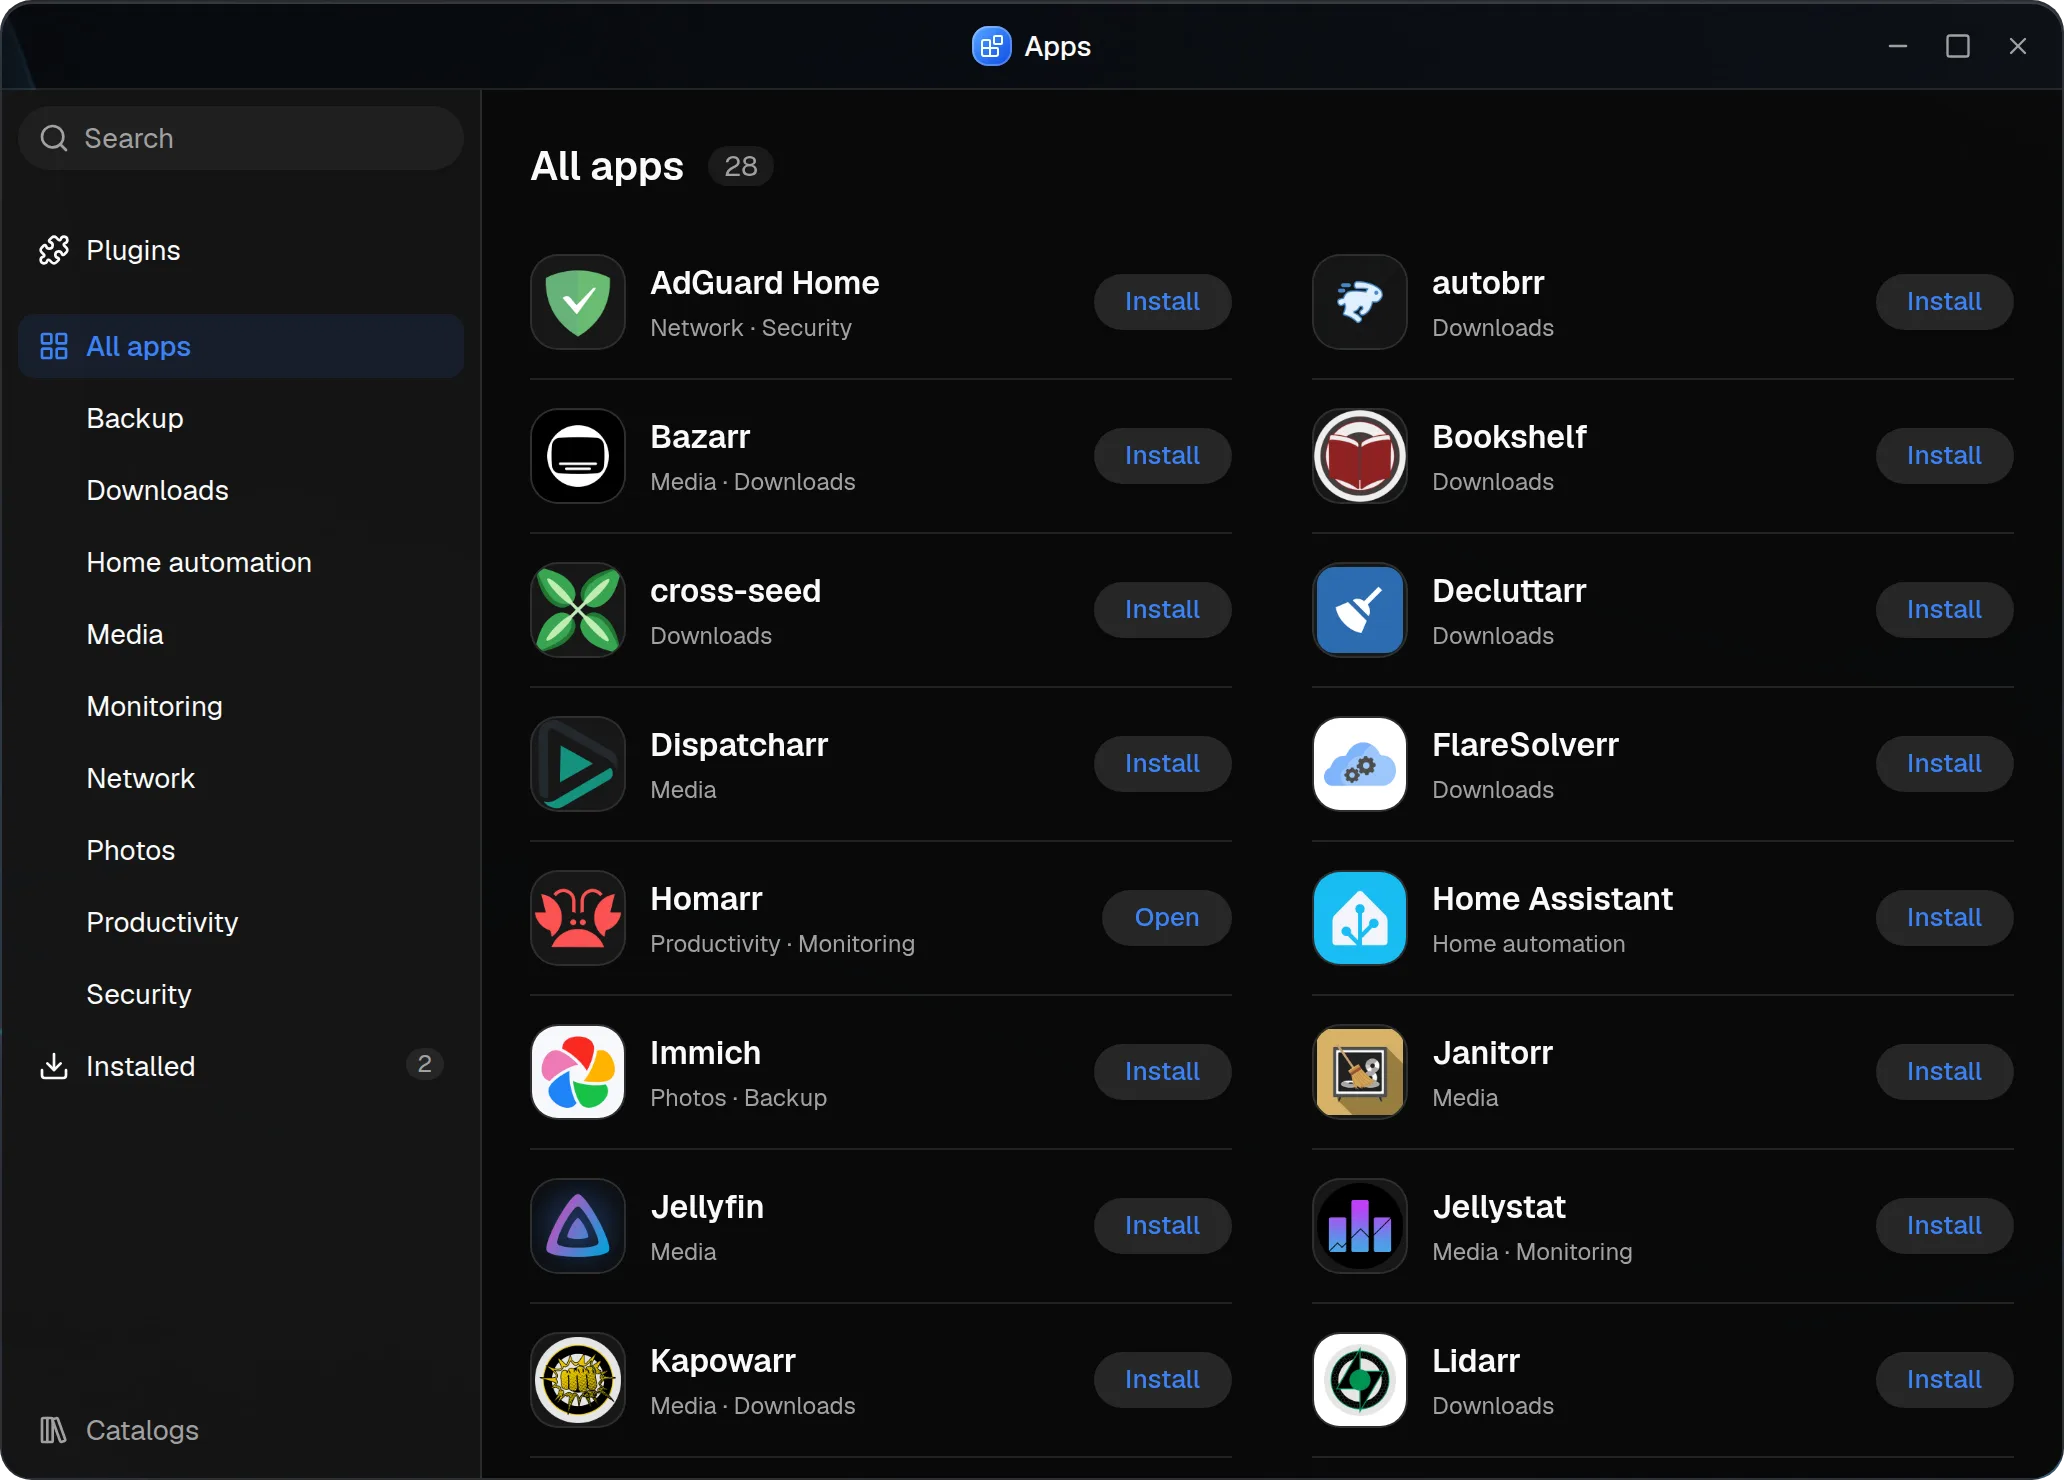
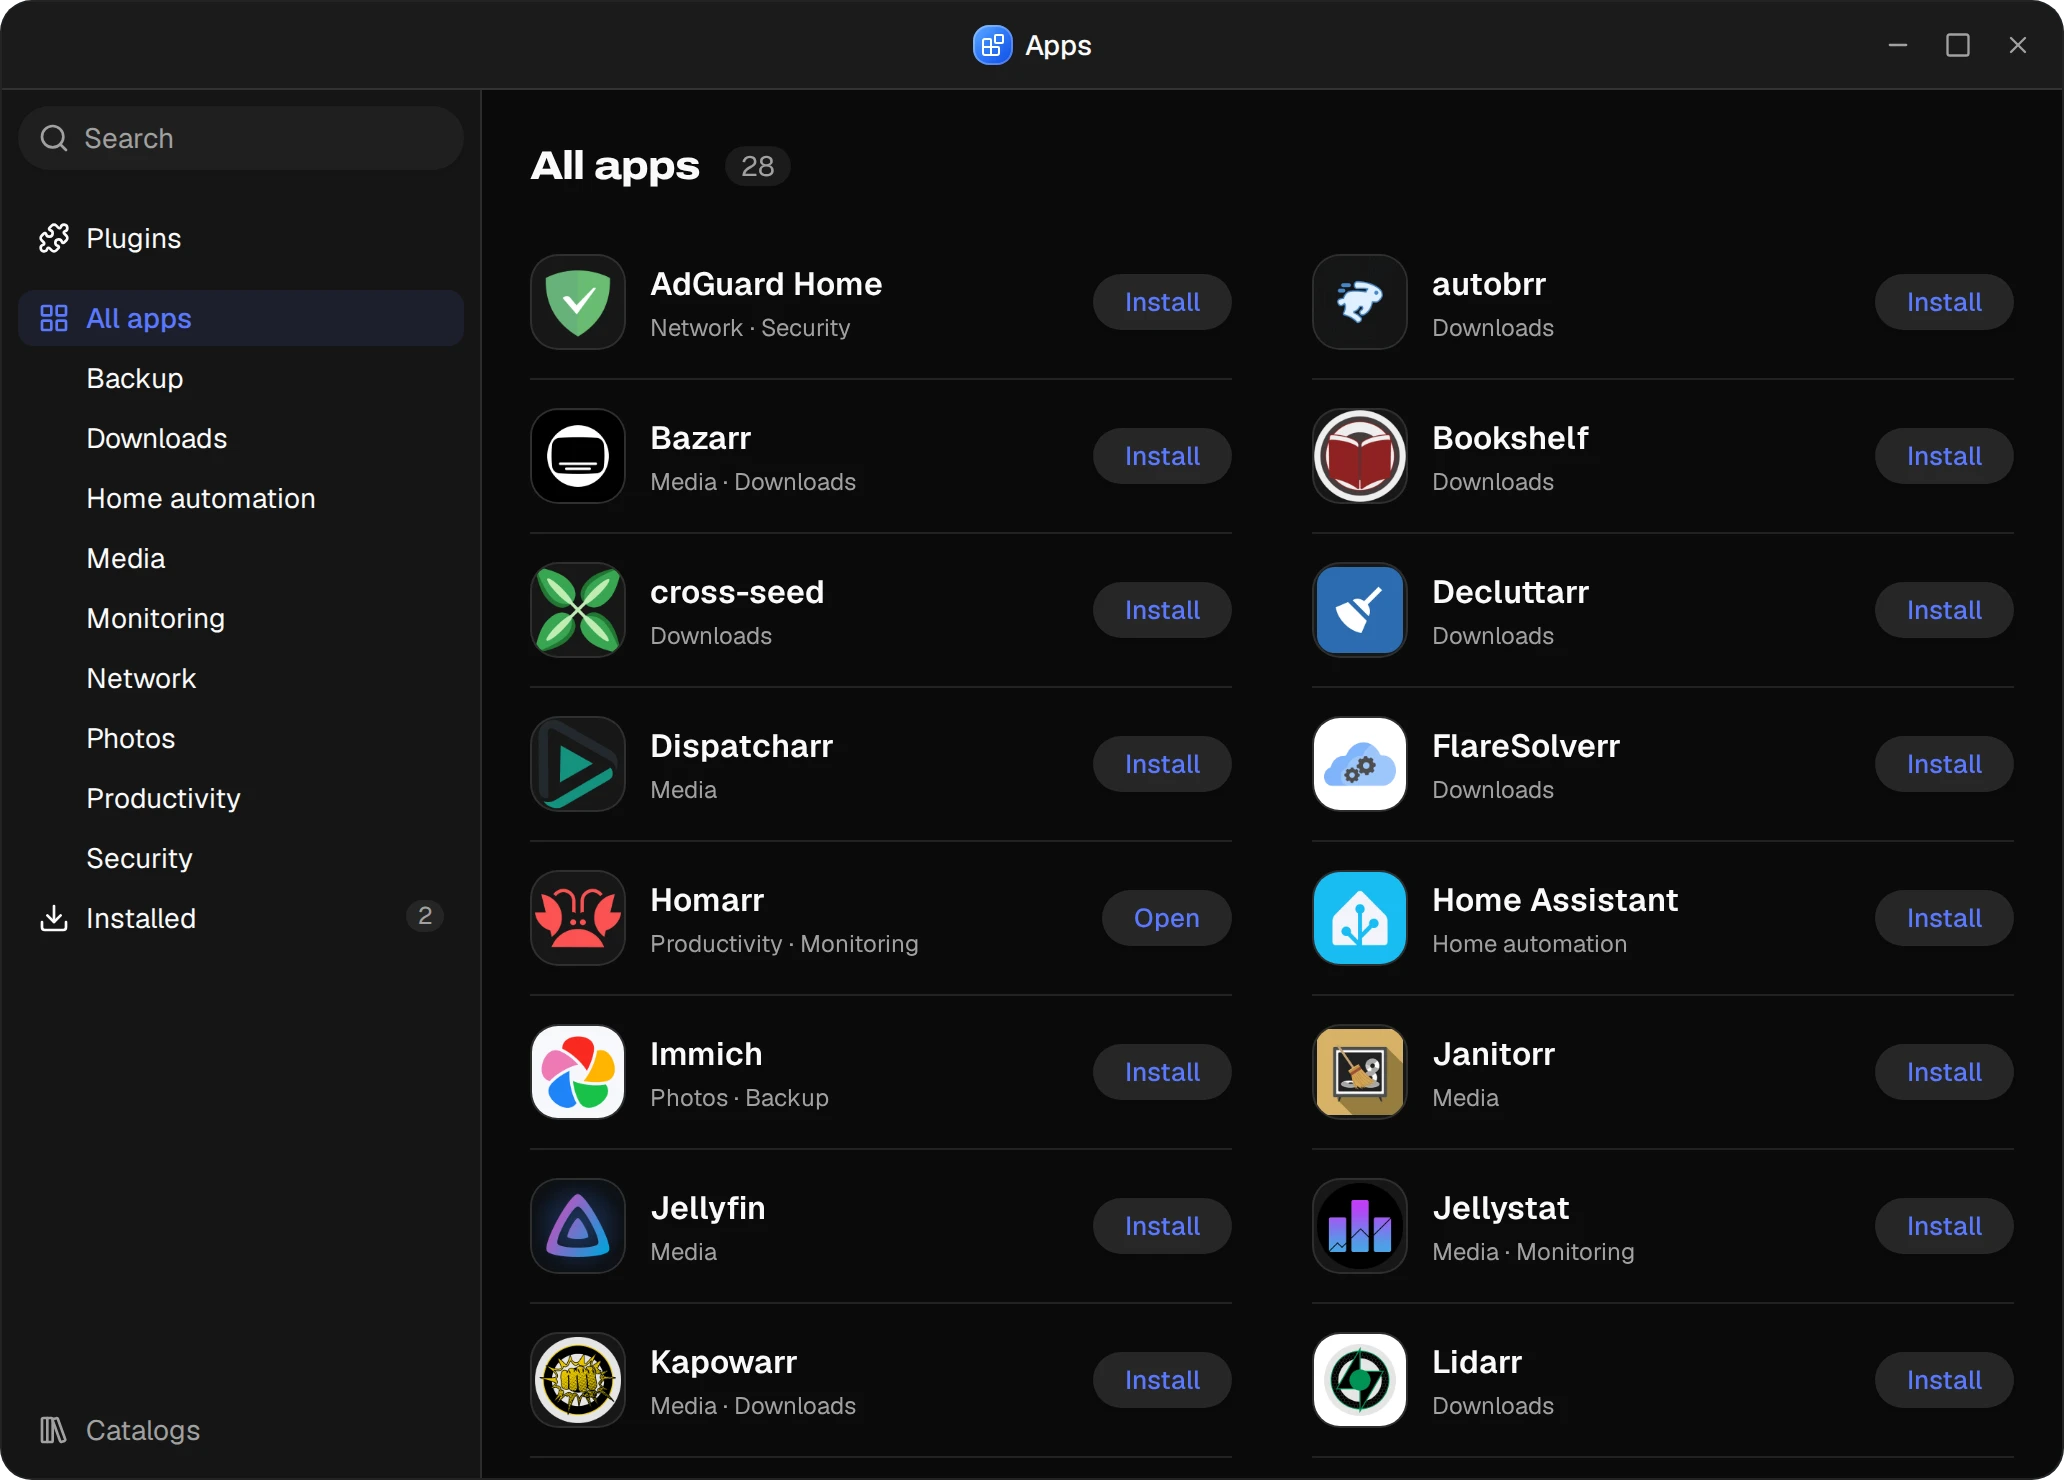
Show the look of 0.5.0: the desktop, files, disks, the pool wizard, apps, Docker and updates anew
Seven of the screenshots are taken again from 0.5.0: solid windows, the
display face in titles, names in the monospaced one, the bar without its
gauges, the Control panel's search. The Updates page shows 0.5.0 from
the stable channel instead of the test release.

The six that need demo data of their own (virtual machines and their
console, the backup tasks and a restore, the configuration backup, a
folder's permissions) still show the test release; the notes say what
each of them needs.

diff --git a/index.html b/index.html
@@ -246,7 +246,7 @@ try { if (!localStorage.getItem('zendiloos.lang') && /^de\b/i.test(navigator.lan
             <p>Once a day zendiloOS looks for updates: Debian’s packages and new releases of zendiloOS itself. You decide when to install them, and the NAS only restarts when you say so.</p>
             <ul class="checks"><li><svg class="i" width="18" height="18" viewBox="0 0 24 24" fill="none" stroke="currentColor" stroke-width="2" stroke-linecap="round" stroke-linejoin="round" aria-hidden="true"><path d="M20 6 9 17l-5-5"/></svg><span>Stable, test or development: the channel is yours to choose</span></li><li><svg class="i" width="18" height="18" viewBox="0 0 24 24" fill="none" stroke="currentColor" stroke-width="2" stroke-linecap="round" stroke-linejoin="round" aria-hidden="true"><path d="M20 6 9 17l-5-5"/></svg><span>Every release signed and verified before it is installed</span></li><li><svg class="i" width="18" height="18" viewBox="0 0 24 24" fill="none" stroke="currentColor" stroke-width="2" stroke-linecap="round" stroke-linejoin="round" aria-hidden="true"><path d="M20 6 9 17l-5-5"/></svg><span>ZFS checked against a new kernel before you restart</span></li><li><svg class="i" width="18" height="18" viewBox="0 0 24 24" fill="none" stroke="currentColor" stroke-width="2" stroke-linecap="round" stroke-linejoin="round" aria-hidden="true"><path d="M20 6 9 17l-5-5"/></svg><span>A kernel without its ZFS module never started: GRUB keeps one that has it </span></li></ul>
           </div>
-          <div class="stage" style="--c1:#6ee7b7;--c2:#059669"><picture class=""><source srcset="assets/img/updates-dark.webp" media="(prefers-color-scheme: dark)"><img src="assets/img/updates-light.webp" width="2064" height="1520" alt="Updates in the control panel: zendiloOS 0.5.0~rc.1 installed; the newest kernel has no ZFS module yet, so the NAS keeps starting the one before." loading="lazy" decoding="async"></picture></div>
+          <div class="stage" style="--c1:#6ee7b7;--c2:#059669"><picture class=""><source srcset="assets/img/updates-dark.webp" media="(prefers-color-scheme: dark)"><img src="assets/img/updates-light.webp" width="2064" height="1520" alt="Updates in the control panel: zendiloOS 0.5.0 installed from the stable channel, the steps of the last update done, and everything current." loading="lazy" decoding="async"></picture></div>
         </article>
       </div>
     </div>

diff --git a/de/index.html b/de/index.html
@@ -244,7 +244,7 @@
             <p>Einmal am Tag sucht zendiloOS nach Updates: Debians Paketen und neuen Releases von zendiloOS selbst. Sie entscheiden, wann installiert wird, und das NAS startet nur neu, wenn Sie es sagen.</p>
             <ul class="checks"><li><svg class="i" width="18" height="18" viewBox="0 0 24 24" fill="none" stroke="currentColor" stroke-width="2" stroke-linecap="round" stroke-linejoin="round" aria-hidden="true"><path d="M20 6 9 17l-5-5"/></svg><span>Stabil, Test oder Entwicklung: Sie wählen den Kanal</span></li><li><svg class="i" width="18" height="18" viewBox="0 0 24 24" fill="none" stroke="currentColor" stroke-width="2" stroke-linecap="round" stroke-linejoin="round" aria-hidden="true"><path d="M20 6 9 17l-5-5"/></svg><span>Jedes Release signiert und vor der Installation geprüft</span></li><li><svg class="i" width="18" height="18" viewBox="0 0 24 24" fill="none" stroke="currentColor" stroke-width="2" stroke-linecap="round" stroke-linejoin="round" aria-hidden="true"><path d="M20 6 9 17l-5-5"/></svg><span>ZFS wird vor dem Neustart gegen einen neuen Kernel geprüft</span></li><li><svg class="i" width="18" height="18" viewBox="0 0 24 24" fill="none" stroke="currentColor" stroke-width="2" stroke-linecap="round" stroke-linejoin="round" aria-hidden="true"><path d="M20 6 9 17l-5-5"/></svg><span>Ein Kernel ohne sein ZFS-Modul startet nie: GRUB bleibt bei einem, der es hat </span></li></ul>
           </div>
-          <div class="stage" style="--c1:#6ee7b7;--c2:#059669"><picture class=""><source srcset="../assets/img/updates-dark.webp" media="(prefers-color-scheme: dark)"><img src="../assets/img/updates-light.webp" width="2064" height="1520" alt="Updates in der Systemsteuerung: zendiloOS 0.5.0~rc.1 ist installiert; der neueste Kernel hat noch kein ZFS-Modul, daher startet das NAS weiter den vorigen." loading="lazy" decoding="async"></picture></div>
+          <div class="stage" style="--c1:#6ee7b7;--c2:#059669"><picture class=""><source srcset="../assets/img/updates-dark.webp" media="(prefers-color-scheme: dark)"><img src="../assets/img/updates-light.webp" width="2064" height="1520" alt="Updates in der Systemsteuerung: zendiloOS 0.5.0 aus dem stabilen Kanal ist installiert, die Schritte des letzten Updates sind erledigt, alles ist aktuell." loading="lazy" decoding="async"></picture></div>
         </article>
       </div>
     </div>

diff --git a/de/features/index.html b/de/features/index.html
@@ -256,7 +256,7 @@
             <div><dt>Noch nicht</dt><dd>Ein Wiederherstellungseintrag im Startmenü des installierten Systems und ein Live-Image mit ZFS für einen Rechner, dessen Systemplatte fehlt</dd></div>
             <div><dt>Getestet</dt><dd>In virtuellen Maschinen: Updates von Debian und zendiloOS, Verweigerungen, ein Kernel ohne ZFS, der nie startet, eine ältere Installation mit ihren Daten aktualisiert, eine Konfigurationssicherung auf einem frischen Rechner wiederhergestellt und ihr Pool importiert.</dd></div>
         </dl>
-        <div class="reveal"><div class="stage stack" style="--c1:#6ee7b7;--c2:#059669"><picture class=""><source srcset="../../assets/img/updates-dark.webp" media="(prefers-color-scheme: dark)"><img src="../../assets/img/updates-light.webp" width="2064" height="1520" alt="Updates in der Systemsteuerung: zendiloOS 0.5.0~rc.1 ist installiert; der neueste Kernel hat noch kein ZFS-Modul, daher startet das NAS weiter den vorigen." loading="lazy" decoding="async"></picture><picture class="back"><source srcset="../../assets/img/config-backup-dark.webp" media="(prefers-color-scheme: dark)"><img src="../../assets/img/config-backup-light.webp" width="2064" height="1520" alt="Die Konfigurationssicherung in der Systemsteuerung: wöchentlich sonntags um 03:00 in die Freigabe backups, die neuesten 7 behalten, dazu die Datei der letzten Sicherung." loading="lazy" decoding="async"></picture></div></div>
+        <div class="reveal"><div class="stage stack" style="--c1:#6ee7b7;--c2:#059669"><picture class=""><source srcset="../../assets/img/updates-dark.webp" media="(prefers-color-scheme: dark)"><img src="../../assets/img/updates-light.webp" width="2064" height="1520" alt="Updates in der Systemsteuerung: zendiloOS 0.5.0 aus dem stabilen Kanal ist installiert, die Schritte des letzten Updates sind erledigt, alles ist aktuell." loading="lazy" decoding="async"></picture><picture class="back"><source srcset="../../assets/img/config-backup-dark.webp" media="(prefers-color-scheme: dark)"><img src="../../assets/img/config-backup-light.webp" width="2064" height="1520" alt="Die Konfigurationssicherung in der Systemsteuerung: wöchentlich sonntags um 03:00 in die Freigabe backups, die neuesten 7 behalten, dazu die Datei der letzten Sicherung." loading="lazy" decoding="async"></picture></div></div>
       </div>
     </div>
   </section>

diff --git a/features/index.html b/features/index.html
@@ -258,7 +258,7 @@ try { if (!localStorage.getItem('zendiloos.lang') && /^de\b/i.test(navigator.lan
             <div><dt>Still to come</dt><dd>A recovery entry in the installed system’s boot menu, and a live image with ZFS for a machine whose system disk is gone</dd></div>
             <div><dt>Tested</dt><dd>In virtual machines: updates of Debian and zendiloOS, refusals, a kernel without ZFS never started, an older installation upgraded with its data, a configuration backup restored on a fresh machine and its pool imported.</dd></div>
         </dl>
-        <div class="reveal"><div class="stage stack" style="--c1:#6ee7b7;--c2:#059669"><picture class=""><source srcset="../assets/img/updates-dark.webp" media="(prefers-color-scheme: dark)"><img src="../assets/img/updates-light.webp" width="2064" height="1520" alt="Updates in the control panel: zendiloOS 0.5.0~rc.1 installed; the newest kernel has no ZFS module yet, so the NAS keeps starting the one before." loading="lazy" decoding="async"></picture><picture class="back"><source srcset="../assets/img/config-backup-dark.webp" media="(prefers-color-scheme: dark)"><img src="../assets/img/config-backup-light.webp" width="2064" height="1520" alt="The configuration backup in the control panel: weekly on Sunday at 03:00 into the share backups, the newest 7 kept, and the last backup’s file." loading="lazy" decoding="async"></picture></div></div>
+        <div class="reveal"><div class="stage stack" style="--c1:#6ee7b7;--c2:#059669"><picture class=""><source srcset="../assets/img/updates-dark.webp" media="(prefers-color-scheme: dark)"><img src="../assets/img/updates-light.webp" width="2064" height="1520" alt="Updates in the control panel: zendiloOS 0.5.0 installed from the stable channel, the steps of the last update done, and everything current." loading="lazy" decoding="async"></picture><picture class="back"><source srcset="../assets/img/config-backup-dark.webp" media="(prefers-color-scheme: dark)"><img src="../assets/img/config-backup-light.webp" width="2064" height="1520" alt="The configuration backup in the control panel: weekly on Sunday at 03:00 into the share backups, the newest 7 kept, and the last backup’s file." loading="lazy" decoding="async"></picture></div></div>
       </div>
     </div>
   </section>

diff --git a/tools/screenshots-needed.md b/tools/screenshots-needed.md
@@ -21,23 +21,37 @@ Where `src/page.mjs` names a pair of images (`AREAS`, `TOUR_IMAGES`), the
 second stands in front of the first, smaller, bottom right. Each image's
 alt text is in `shots` of both `src/i18n` files.
 
-## Taken from 0.5.0~rc.1 (test VM 2, 2026-11-12)
+## Taken from 0.5.0 (test VM 2, 2026-11-14)
 
-| Image | View | Demo data, removed again afterwards |
+With the look of 0.5.0: solid windows, the display face in titles, the
+monospaced one in names, quiet states.
+
+| Image | View | Demo data |
+| --- | --- | --- |
+| `hero` | the desktop, Files on `documents` in the list view, 900 × 738 at 112, 36 so the widgets stay beside it | as the machine is; notifications marked read |
+| `files` | Files, the share `documents` in the grid view | as the machine is |
+| `disks` | Control panel → Disks | as the machine is |
+| `pool-wizard` | Control panel → Pools → New pool, step 1 | the two free disks chosen, Mirror; cancelled, nothing made |
+| `apps` | Apps → All apps | as the machine is |
+| `docker` | Docker → Containers | as the machine is: Homarr, Uptime Kuma, notes |
+| `updates` | Control panel → Updates | as the machine is: 0.5.0 from the stable channel, right after its update and a restart |
+
+A window is given its place and size through `zendiloos.desktop.<account>`
+in the browser's storage before the page is loaded, which also opens it on
+the page wanted, so no shot depends on where a window was left.
+
+## Still with the look of 0.5.0~rc.1 (test VM 2, 2026-11-12)
+
+These need their demo data made anew, and removed again afterwards.
+
+| Image | View | Demo data |
 | --- | --- | --- |
 | `vms` | Virtual machines → Machines | VMs `web` (running the Alpine ISO), `windows11` (TPM, Secure Boot, two disks), `homeassistant`, beside the machine's own `alpine` |
 | `vm-console` | the console of `web` | `top` after signing in as root |
 | `backup` | Backup → Tasks | share `backups` on `apps`, a USB drive `BACKUP` (an ext4 image plugged in through `vm.sh removable-attach`), three tasks run once |
 | `backup-restore` | Backup → Restore | the media task's version, only `Movies` chosen |
 | `config-backup` | Control panel → Configuration backup | weekly on Sunday at 03:00 into `backups/nas-config`, keep 7, run once |
-| `pool-wizard` | Control panel → Pools → New pool, step 1 | the two free disks chosen; cancelled, nothing made |
-| `disks` | Control panel → Disks | as the machine is |
-| `files` | Files, the share `documents` in the grid view | as the machine is |
-| `updates` | Control panel → Updates | as the machine is: 0.5.0~rc.1, a newer kernel without ZFS kept from starting |
-
-In 0.5.0~rc.1 the Backup app's name is missing from the interface's
-translations (`apps.backup` on the desktop and in its title bar); the shots
-show the title as it will read once that is fixed ("Backup").
+| `shares` | Files → `documents` → Properties → Permissions (from 0.2.0) | groups `family` and `guests`, accounts Anna and Ben Berger |
 
 ## Still needed
 
@@ -55,9 +69,3 @@ For the features page's "Network" section.
 - **Worth taking as well:** the same page right after a change, with the
   banner that asks to keep the settings and counts down the two minutes.
 - Then `AREAS.network.shots` in `src/page.mjs` and its alt text in `shots`.
-
-### Older shots, from 0.2.0
-
-`hero`, `shares` (a folder's properties), `apps` and `docker` still show
-0.2.0. They are not wrong, but the desktop and the windows have changed a
-little since; take them anew with the next round.
